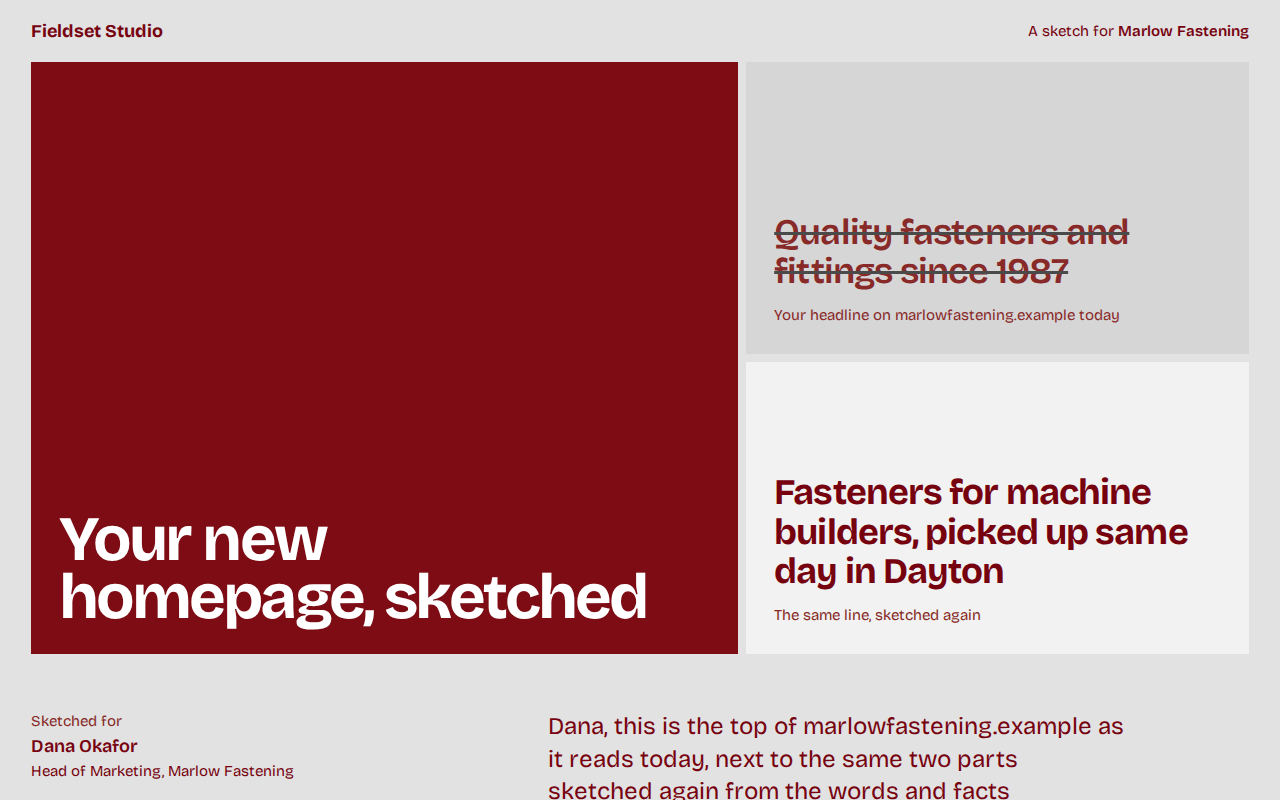
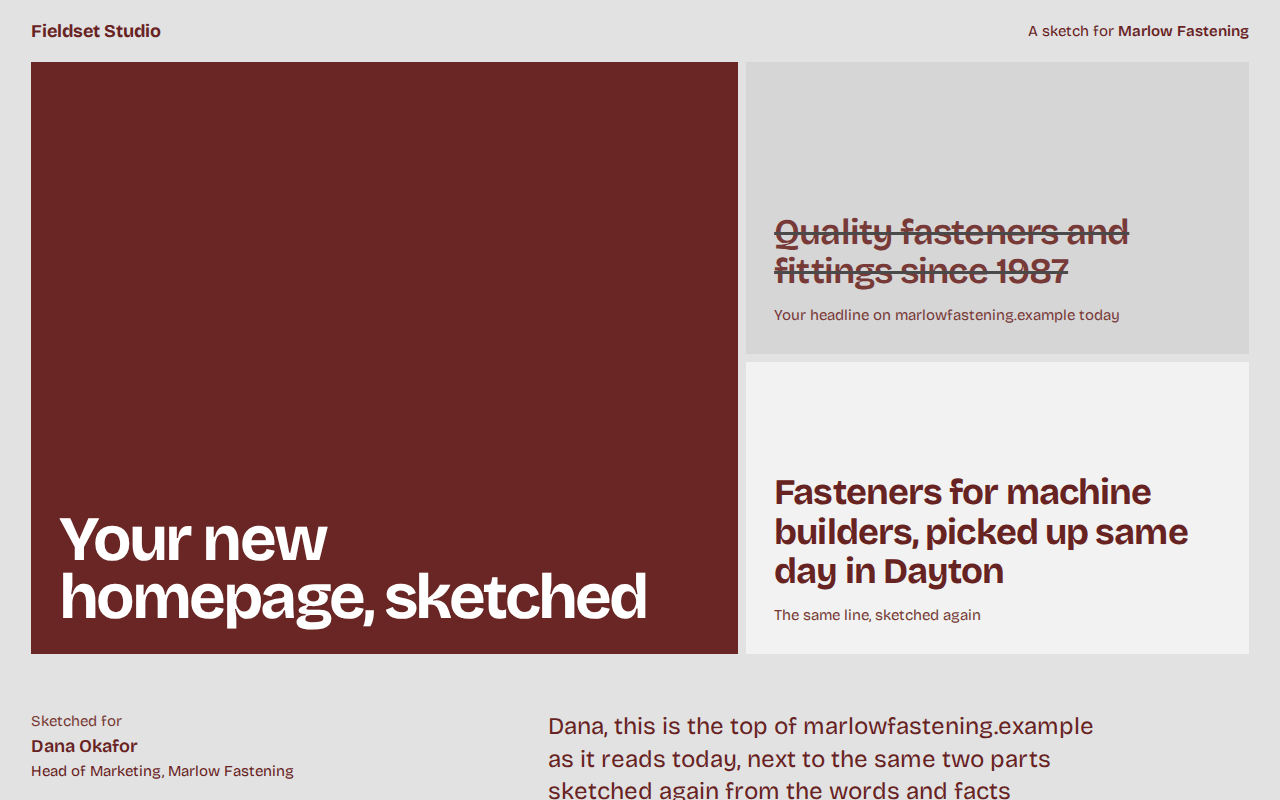
Library colour pass: agency-mockup, softer oxblood
#7d0c14 to #6a2624: the oxblood hero tile, closing field and ink drop from chroma 0.144 to 0.098, same hue.

diff --git a/starters/agency-mockup/preview/marlow.html b/starters/agency-mockup/preview/marlow.html
@@ -9,8 +9,8 @@
 <style>
 *{box-sizing:border-box}
 html{-webkit-text-size-adjust:100%}
-body{margin:0;background:#e2e2e2;color:#7d0c14;font-family:'Bricolage Grotesque',ui-sans-serif,system-ui,sans-serif;font-size:1.125rem;line-height:1.5;-webkit-font-smoothing:antialiased}
-.am{--paper:#e2e2e2;--surface:#d6d6d6;--sheet:#f2f2f2;--a:#7d0c14;--a2:#4a4a4a;--ink:#7d0c14;--ink:oklch(from var(--a) min(l,0.36) min(c,0.16) h);--muted:#6e3a3e;--muted:color-mix(in oklch,var(--ink) 88%,var(--paper));--f-ink:#e2e2e2;--f-ink:color(from var(--a) xyz-d65 clamp(0,(.18 - y) * 1000000,.9505) clamp(0,(.18 - y) * 1000000,1) clamp(0,(.18 - y) * 1000000,1.089));--m:clamp(1rem,2.4vw,2rem);--head:'Bricolage Grotesque',ui-sans-serif,system-ui,sans-serif;color:var(--ink)}
+body{margin:0;background:#e2e2e2;color:#6a2624;font-family:'Bricolage Grotesque',ui-sans-serif,system-ui,sans-serif;font-size:1.125rem;line-height:1.5;-webkit-font-smoothing:antialiased}
+.am{--paper:#e2e2e2;--surface:#d6d6d6;--sheet:#f2f2f2;--a:#6a2624;--a2:#4a4a4a;--ink:#6a2624;--ink:oklch(from var(--a) min(l,0.36) min(c,0.16) h);--muted:#6e3a3e;--muted:color-mix(in oklch,var(--ink) 88%,var(--paper));--f-ink:#e2e2e2;--f-ink:color(from var(--a) xyz-d65 clamp(0,(.18 - y) * 1000000,.9505) clamp(0,(.18 - y) * 1000000,1) clamp(0,(.18 - y) * 1000000,1.089));--m:clamp(1rem,2.4vw,2rem);--head:'Bricolage Grotesque',ui-sans-serif,system-ui,sans-serif;color:var(--ink)}
 .am h1,.am h2,.am h3{font-family:var(--head);font-weight:700;line-height:1;letter-spacing:-.03em;margin:0;text-wrap:balance}
 .am p{margin:0;text-wrap:pretty}
 .am ol,.am ul{margin:0;padding:0;list-style:none}
@@ -206,7 +206,7 @@ body{margin:0;background:#e2e2e2;color:#7d0c14;font-family:'Bricolage Grotesque'
 <div class="am-next-main">
 <h2>Want the rest of the page?</h2>
 <p>Thirty minutes is enough to walk through the sketch on a screen, hear what is off, and decide whether a full homepage is worth doing. If you would rather, reply with notes and I will revise this page.</p>
-<div class="am-cta"><a class="ken-cta" data-ken-cta="booking" href="#" style="display:inline-block;padding:12px 20px;border-radius:8px;background:#7d0c14;color:#fff;text-decoration:none;font-weight:600">Book 30 minutes</a></div>
+<div class="am-cta"><a class="ken-cta" data-ken-cta="booking" href="#" style="display:inline-block;padding:12px 20px;border-radius:8px;background:#6a2624;color:#fff;text-decoration:none;font-weight:600">Book 30 minutes</a></div>
 <p class="am-sign">Jonas Lindqvist<span>Creative Director, Fieldset Studio</span></p>
 </div>
 <div class="am-how">

diff --git a/starters/agency-mockup/preview/bellhaven-shared.html b/starters/agency-mockup/preview/bellhaven-shared.html
@@ -13,8 +13,8 @@
 <style>
 *{box-sizing:border-box}
 html{-webkit-text-size-adjust:100%}
-body{margin:0;background:#e2e2e2;color:#7d0c14;font-family:'Source Sans 3',ui-sans-serif,system-ui,sans-serif;font-size:1.125rem;line-height:1.5;-webkit-font-smoothing:antialiased}
-.am{--paper:#e2e2e2;--surface:#d6d6d6;--sheet:#f2f2f2;--a:#1f2d3d;--a2:#b08d57;--ink:#7d0c14;--ink:oklch(from var(--a) min(l,0.36) min(c,0.16) h);--muted:#6e3a3e;--muted:color-mix(in oklch,var(--ink) 88%,var(--paper));--f-ink:#e2e2e2;--f-ink:color(from var(--a) xyz-d65 clamp(0,(.18 - y) * 1000000,.9505) clamp(0,(.18 - y) * 1000000,1) clamp(0,(.18 - y) * 1000000,1.089));--m:clamp(1rem,2.4vw,2rem);--head:'Newsreader',ui-sans-serif,system-ui,sans-serif;color:var(--ink)}
+body{margin:0;background:#e2e2e2;color:#6a2624;font-family:'Source Sans 3',ui-sans-serif,system-ui,sans-serif;font-size:1.125rem;line-height:1.5;-webkit-font-smoothing:antialiased}
+.am{--paper:#e2e2e2;--surface:#d6d6d6;--sheet:#f2f2f2;--a:#1f2d3d;--a2:#b08d57;--ink:#6a2624;--ink:oklch(from var(--a) min(l,0.36) min(c,0.16) h);--muted:#6e3a3e;--muted:color-mix(in oklch,var(--ink) 88%,var(--paper));--f-ink:#e2e2e2;--f-ink:color(from var(--a) xyz-d65 clamp(0,(.18 - y) * 1000000,.9505) clamp(0,(.18 - y) * 1000000,1) clamp(0,(.18 - y) * 1000000,1.089));--m:clamp(1rem,2.4vw,2rem);--head:'Newsreader',ui-sans-serif,system-ui,sans-serif;color:var(--ink)}
 .am h1,.am h2,.am h3{font-family:var(--head);font-weight:700;line-height:1;letter-spacing:-.03em;margin:0;text-wrap:balance}
 .am p{margin:0;text-wrap:pretty}
 .am ol,.am ul{margin:0;padding:0;list-style:none}

diff --git a/starters/agency-mockup/preview/juniper.html b/starters/agency-mockup/preview/juniper.html
@@ -13,8 +13,8 @@
 <style>
 *{box-sizing:border-box}
 html{-webkit-text-size-adjust:100%}
-body{margin:0;background:#e2e2e2;color:#7d0c14;font-family:'Figtree',ui-sans-serif,system-ui,sans-serif;font-size:1.125rem;line-height:1.5;-webkit-font-smoothing:antialiased}
-.am{--paper:#e2e2e2;--surface:#d6d6d6;--sheet:#f2f2f2;--a:#0a7cff;--a2:#0b1b35;--ink:#7d0c14;--ink:oklch(from var(--a) min(l,0.36) min(c,0.16) h);--muted:#6e3a3e;--muted:color-mix(in oklch,var(--ink) 88%,var(--paper));--f-ink:#e2e2e2;--f-ink:color(from var(--a) xyz-d65 clamp(0,(.18 - y) * 1000000,.9505) clamp(0,(.18 - y) * 1000000,1) clamp(0,(.18 - y) * 1000000,1.089));--m:clamp(1rem,2.4vw,2rem);--head:'Outfit',ui-sans-serif,system-ui,sans-serif;color:var(--ink)}
+body{margin:0;background:#e2e2e2;color:#6a2624;font-family:'Figtree',ui-sans-serif,system-ui,sans-serif;font-size:1.125rem;line-height:1.5;-webkit-font-smoothing:antialiased}
+.am{--paper:#e2e2e2;--surface:#d6d6d6;--sheet:#f2f2f2;--a:#0a7cff;--a2:#0b1b35;--ink:#6a2624;--ink:oklch(from var(--a) min(l,0.36) min(c,0.16) h);--muted:#6e3a3e;--muted:color-mix(in oklch,var(--ink) 88%,var(--paper));--f-ink:#e2e2e2;--f-ink:color(from var(--a) xyz-d65 clamp(0,(.18 - y) * 1000000,.9505) clamp(0,(.18 - y) * 1000000,1) clamp(0,(.18 - y) * 1000000,1.089));--m:clamp(1rem,2.4vw,2rem);--head:'Outfit',ui-sans-serif,system-ui,sans-serif;color:var(--ink)}
 .am h1,.am h2,.am h3{font-family:var(--head);font-weight:700;line-height:1;letter-spacing:-.03em;margin:0;text-wrap:balance}
 .am p{margin:0;text-wrap:pretty}
 .am ol,.am ul{margin:0;padding:0;list-style:none}
